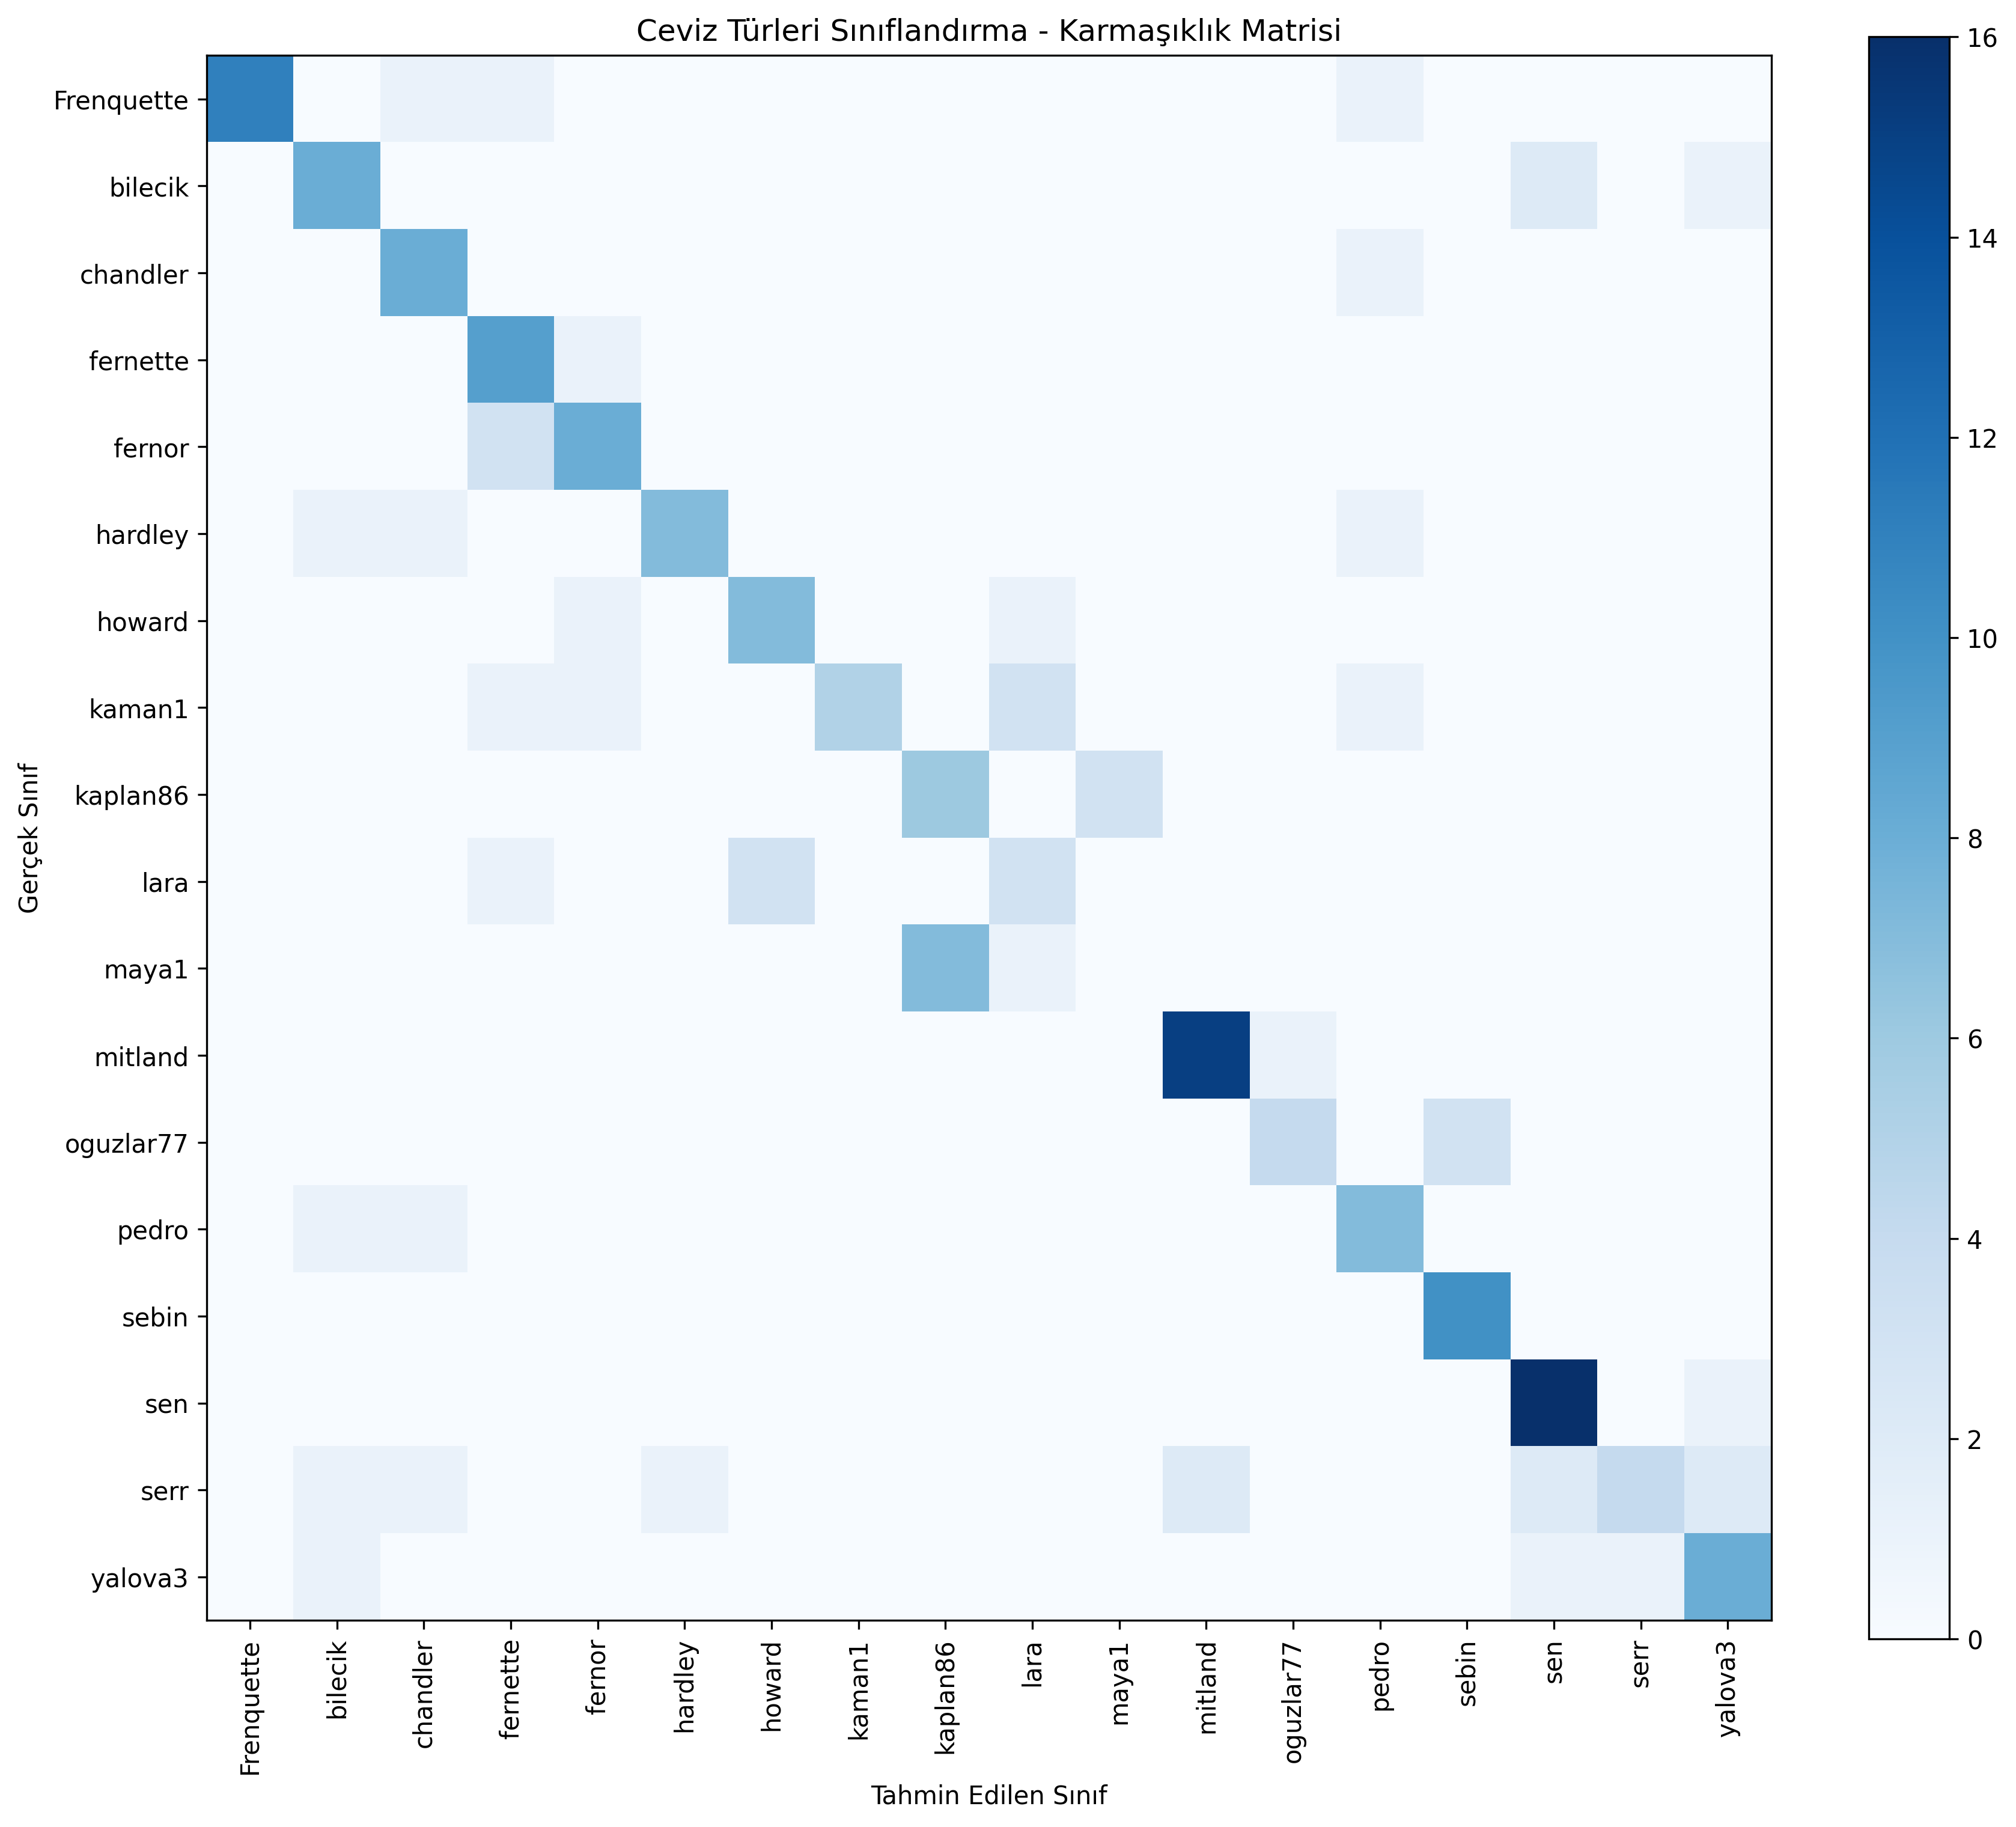
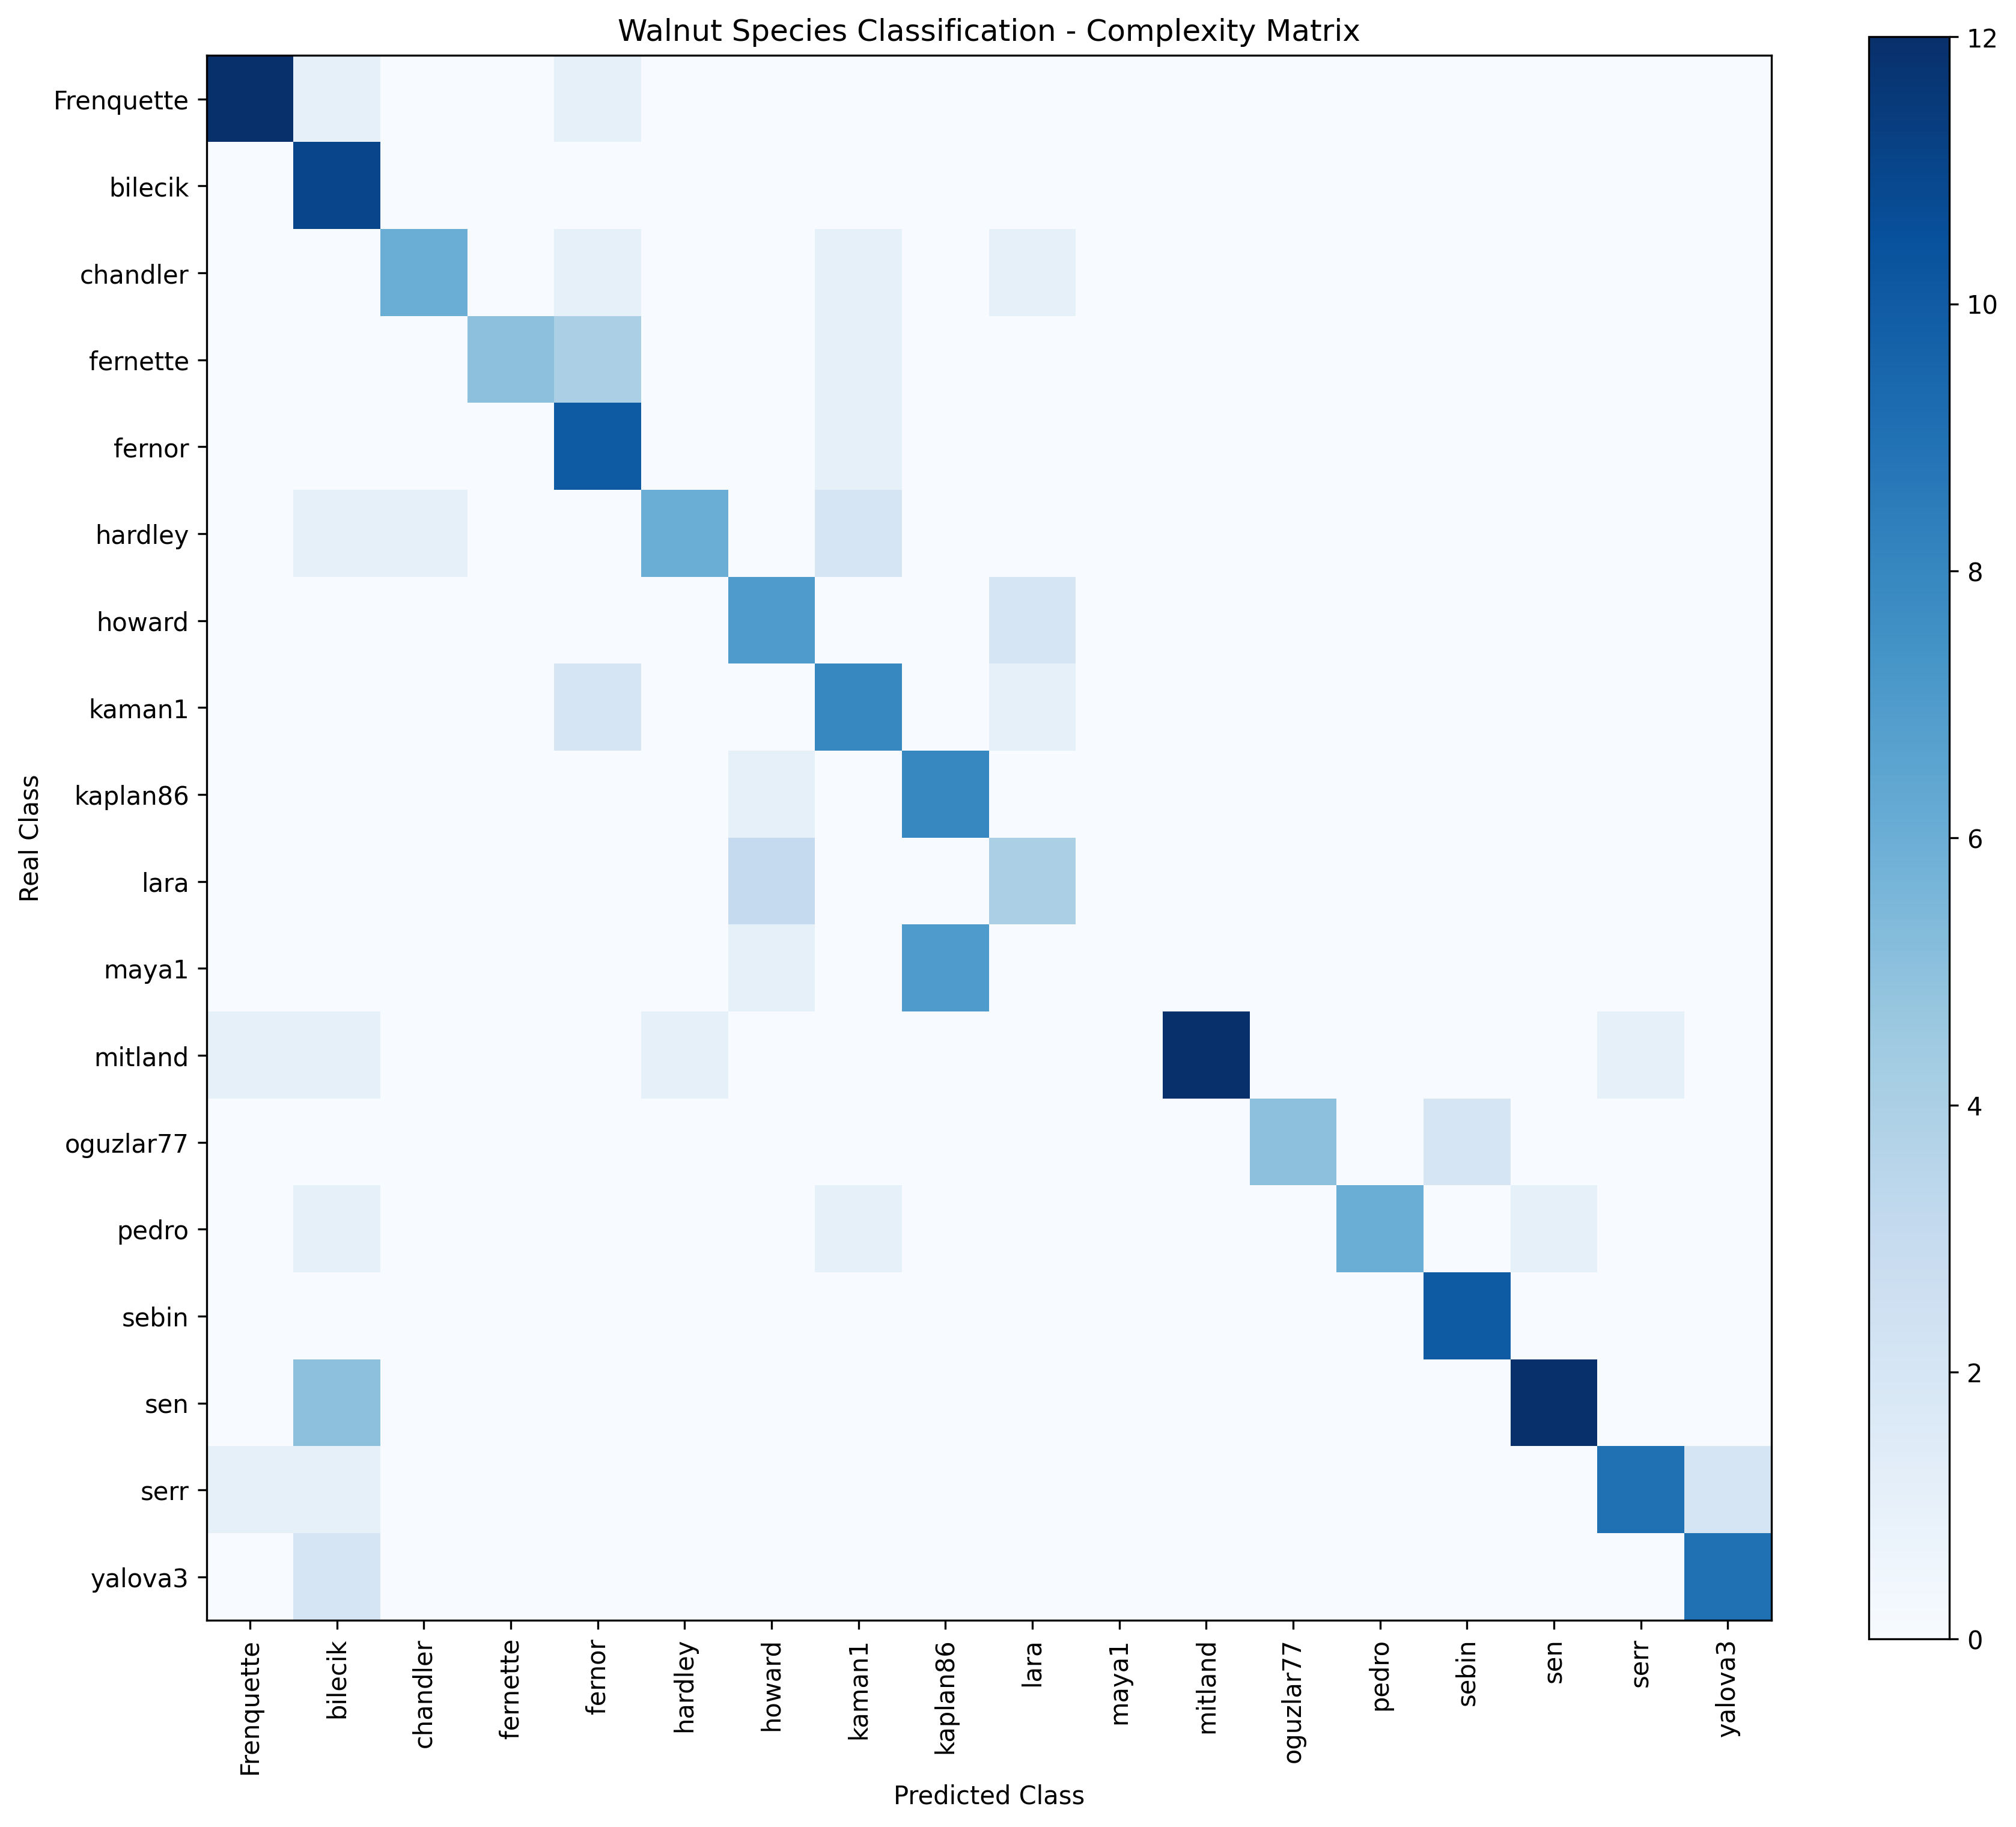
Add files via upload

diff --git a/transforms.py b/transforms.py
@@ -4,6 +4,17 @@ import torch
 import numpy as np
 from torchvision import datasets, transforms
 from torch.utils.data import DataLoader
+from PIL import Image, UnidentifiedImageError
+
+def safe_pil_loader(path):
+    try:
+        with open(path, 'rb') as f:
+            img = Image.open(f)
+            return img.convert('RGB')
+    except (UnidentifiedImageError, OSError):
+        print(f"[WRNG] The corrupted or unreadable image was skipped.: {path}")
+        # Alternatif olarak sabit boyutta siyah bir imaj döndürebilirsin
+        return Image.new('RGB', (224, 224))
 
 def set_seed(seed=42):
     random.seed(seed)
@@ -39,9 +50,9 @@ def get_data_loaders(data_dir="dataset/dataset_ready", batch_size=32, num_worker
     ])
 
     # Datasetler
-    train_ds = datasets.ImageFolder(train_dir, transform=train_transform)
-    val_ds = datasets.ImageFolder(val_dir, transform=val_test_transform)
-    test_ds = datasets.ImageFolder(test_dir, transform=val_test_transform)
+    train_ds = datasets.ImageFolder(train_dir, transform=train_transform,loader=safe_pil_loader)
+    val_ds = datasets.ImageFolder(val_dir, transform=val_test_transform,loader=safe_pil_loader)
+    test_ds = datasets.ImageFolder(test_dir, transform=val_test_transform,loader=safe_pil_loader)
 
     # Loaderlar
     train_loader = DataLoader(train_ds, batch_size=batch_size, shuffle=True, num_workers=num_workers)

diff --git a/train.py b/train.py
@@ -4,7 +4,6 @@ import torch.nn as nn
 import torch.optim as optim
 from torchvision.models import resnet18, ResNet18_Weights
 from transforms import set_seed, get_data_loaders
-
 def main():
     set_seed(42)
     train_loader, val_loader, _, class_names = get_data_loaders()
@@ -60,8 +59,8 @@ def main():
             running_loss += loss.item() * inputs.size(0)
             running_corrects += torch.sum(preds == labels.data)
             
-        epoch_loss = running_loss / len(train_dataset)
-        epoch_acc = running_corrects.double() / len(train_dataset)
+        epoch_loss = running_loss / len(train_loader.dataset)
+        epoch_acc = running_corrects.double() / len(train_loader.dataset)
         print(f'Train -> Loss: {epoch_loss:.4f} | Accuracy: {epoch_acc:.4f}')
         
         # --- DOĞRULAMA AŞAMASI ---
@@ -81,8 +80,8 @@ def main():
             val_loss += loss.item() * inputs.size(0)
             val_corrects += torch.sum(preds == labels.data)
             
-        val_epoch_loss = val_loss / len(val_dataset)
-        val_epoch_acc = val_corrects.double() / len(val_dataset)
+        val_epoch_loss = val_loss / len(val_loader.dataset)
+        val_epoch_acc = val_corrects.double() / len(val_loader.dataset)
         print(f'Val   -> Loss: {val_epoch_loss:.4f} | Accuracy: {val_epoch_acc:.4f}')
         
         # En iyi modeli kaydetme

diff --git a/counter.py b/counter.py
@@ -21,4 +21,4 @@ for split in splits:
             ])
             print(f"  {cls}: {count}")
             
-    print() # Çıktıların okunabilirliği için boşluk
+    print()

diff --git a/README.md b/README.md
@@ -98,3 +98,4 @@ All experiments were conducted with a fixed random seed (`42`) to ensure reprodu
 **Author**: [Fatih Gok]  
 **Course**: AI Lab, Sapienza University of Rome  
 **Year**: 2025-2026
+